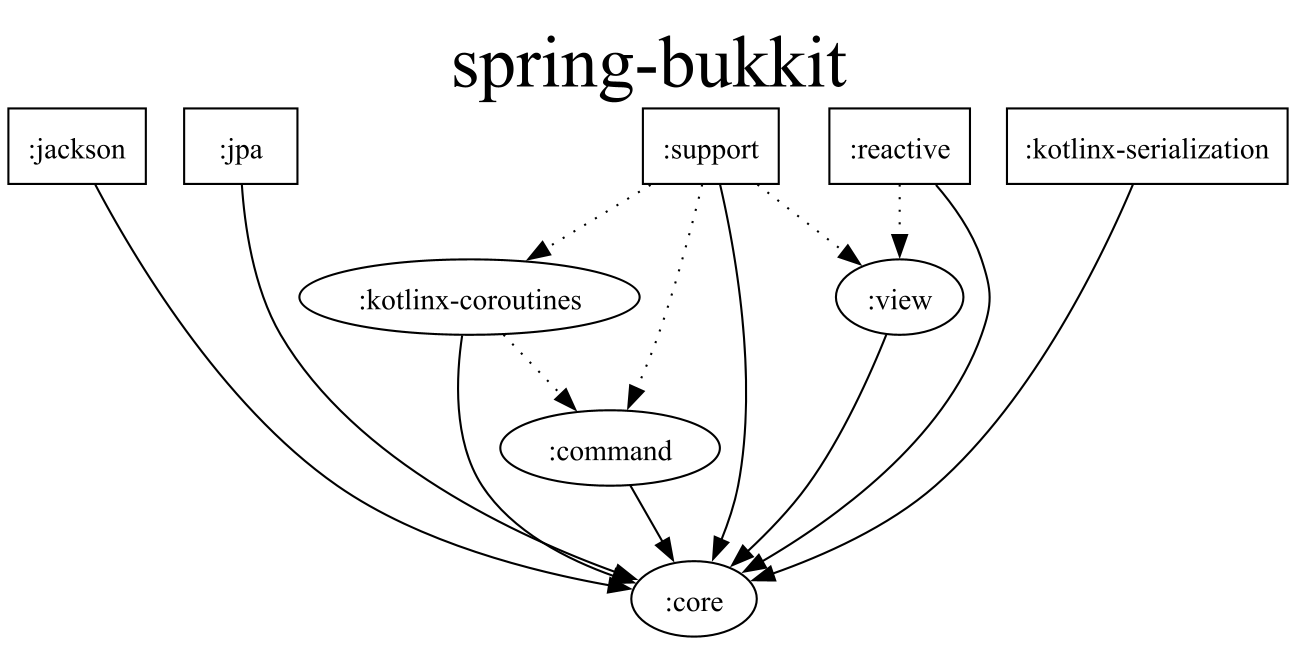
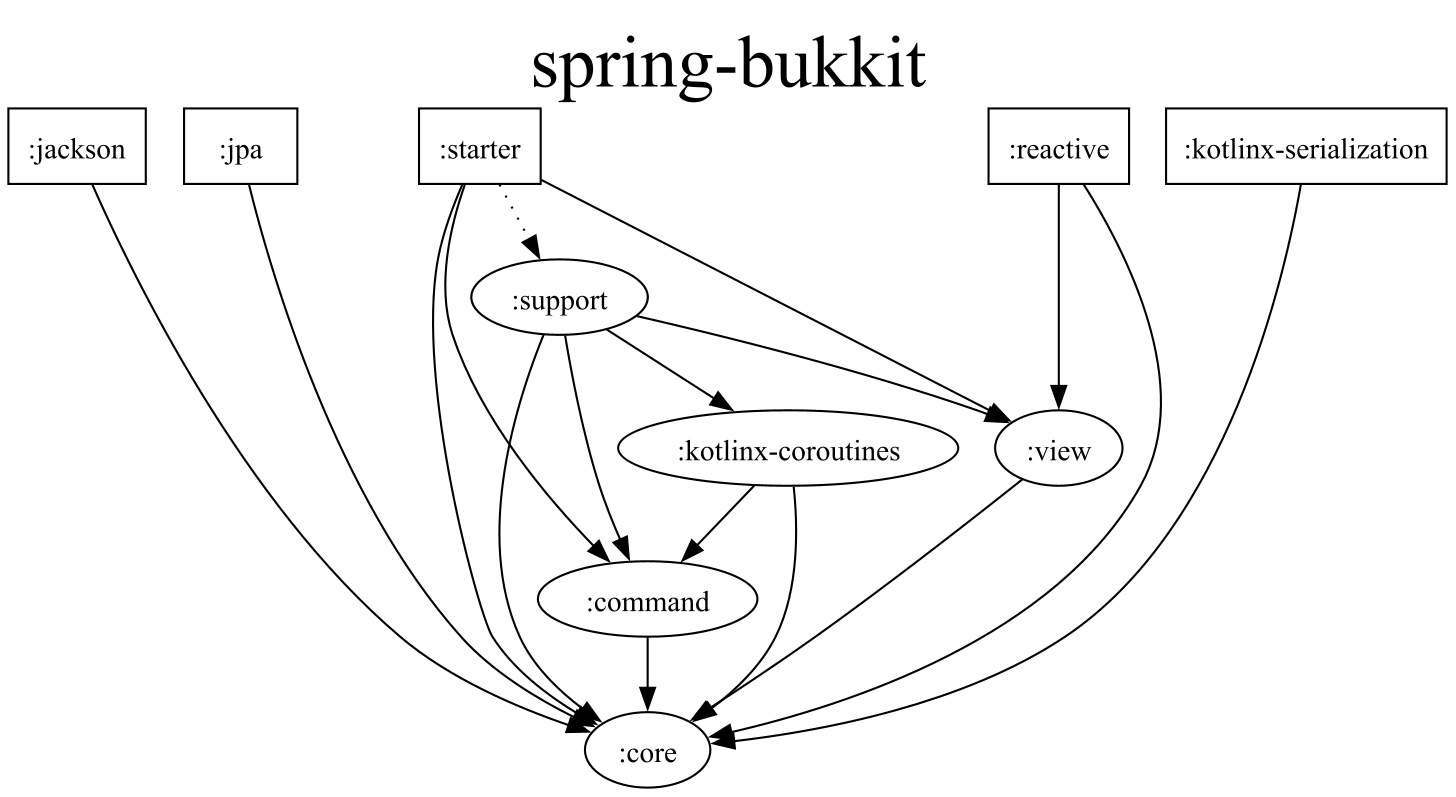
Fix auto configuration issue of support module

diff --git a/spring-bukkit-support/src/main/kotlin/kr/summitsystems/springbukkit/support/folia/coroutines/FoliaMainDispatcherFactory.kt b/spring-bukkit-support/src/main/kotlin/kr/summitsystems/springbukkit/support/folia/coroutines/FoliaMainDispatcherFactory.kt
@@ -3,6 +3,7 @@ package kr.summitsystems.springbukkit.support.folia.coroutines
 import kotlinx.coroutines.InternalCoroutinesApi
 import kotlinx.coroutines.MainCoroutineDispatcher
 import kotlinx.coroutines.internal.MainDispatcherFactory
+import kr.summitsystems.springbukkit.support.folia.FoliaUtils
 
 @OptIn(InternalCoroutinesApi::class)
 class FoliaMainDispatcherFactory : MainDispatcherFactory {
@@ -10,21 +11,12 @@ class FoliaMainDispatcherFactory : MainDispatcherFactory {
         get() = -1
 
     override fun createDispatcher(allFactories: List<MainDispatcherFactory>): MainCoroutineDispatcher {
-        return if (classExists("io.papermc.paper.threadedregions.scheduler.GlobalRegionScheduler")) {
+        return if (FoliaUtils.isUsingFolia()) {
             FoliaMainDispatcher()
         } else {
             allFactories
                 .first { it.loadPriority != this.loadPriority }
                 .createDispatcher(allFactories)
-        }
-    }
-
-    private fun classExists(className: String): Boolean {
-        return try {
-            Class.forName(className)
-            true
-        } catch (ex: ClassNotFoundException) {
-            false
         }
     }
 }

diff --git a/spring-bukkit-support/src/main/kotlin/kr/summitsystems/springbukkit/support/folia/FoliaConfiguration.kt b/spring-bukkit-support/src/main/kotlin/kr/summitsystems/springbukkit/support/folia/FoliaConfiguration.kt
@@ -2,15 +2,18 @@ package kr.summitsystems.springbukkit.support.folia
 
 import kr.summitsystems.springbukkit.core.scheduler.BukkitTaskScheduler
 import org.bukkit.plugin.Plugin
-import org.springframework.boot.autoconfigure.condition.ConditionalOnClass
 import org.springframework.context.annotation.Bean
 import org.springframework.context.annotation.Configuration
+import org.springframework.context.annotation.Primary
 
 @Configuration
 class FoliaConfiguration {
-    @ConditionalOnClass(name = ["io.papermc.paper.threadedregions.scheduler.GlobalRegionScheduler"])
+    @Primary
+    @ConditionalOnFolia
     @Bean
-    fun foliaBukkitTaskScheduler(plugin: Plugin): BukkitTaskScheduler {
+    fun foliaBukkitTaskScheduler(
+        plugin: Plugin
+    ): BukkitTaskScheduler {
         return FoliaBukkitTaskScheduler(plugin)
     }
 }

diff --git a/spring-bukkit-kotlinx-coroutines/src/main/kotlin/kr/summitsystems/springbukkit/kotlinx/coroutines/command/CoroutinesCommandExecutor.kt b/spring-bukkit-kotlinx-coroutines/src/main/kotlin/kr/summitsystems/springbukkit/kotlinx/coroutines/command/CoroutinesCommandExecutor.kt
@@ -5,7 +5,7 @@ import kotlinx.coroutines.launch
 import kr.summitsystems.springbukkit.command.*
 import org.springframework.beans.factory.annotation.Qualifier
 import org.springframework.beans.factory.config.BeanDefinition
-import org.springframework.context.annotation.Bean
+import org.springframework.context.annotation.Primary
 import org.springframework.context.annotation.Role
 import org.springframework.core.KotlinDetector
 import org.springframework.core.convert.ConversionService
@@ -13,6 +13,7 @@ import org.springframework.stereotype.Component
 import kotlin.reflect.full.callSuspend
 import kotlin.reflect.jvm.kotlinFunction
 
+@Primary
 @Component
 @Role(BeanDefinition.ROLE_INFRASTRUCTURE)
 class CoroutinesCommandExecutor(

diff --git a/spring-bukkit-kotlinx-coroutines/src/main/kotlin/kr/summitsystems/springbukkit/kotlinx/coroutines/listener/CoroutinesEventExecutorFactory.kt b/spring-bukkit-kotlinx-coroutines/src/main/kotlin/kr/summitsystems/springbukkit/kotlinx/coroutines/listener/CoroutinesEventExecutorFactory.kt
@@ -4,10 +4,12 @@ import kotlinx.coroutines.CoroutineScope
 import kr.summitsystems.springbukkit.core.listener.EventExecutorFactory
 import org.bukkit.plugin.EventExecutor
 import org.springframework.beans.factory.config.BeanDefinition
+import org.springframework.context.annotation.Primary
 import org.springframework.context.annotation.Role
 import org.springframework.stereotype.Component
 import java.lang.reflect.Method
 
+@Primary
 @Component
 @Role(BeanDefinition.ROLE_INFRASTRUCTURE)
 class CoroutinesEventExecutorFactory(private val coroutineScope: CoroutineScope) : EventExecutorFactory {

diff --git a/spring-bukkit-support/src/main/kotlin/kr/summitsystems/springbukkit/support/folia/FoliaUtils.kt b/spring-bukkit-support/src/main/kotlin/kr/summitsystems/springbukkit/support/folia/FoliaUtils.kt
@@ -1,0 +1,16 @@
+package kr.summitsystems.springbukkit.support.folia
+
+object FoliaUtils {
+    fun isUsingFolia(): Boolean {
+        return classExists("io.papermc.paper.threadedregions.RegionizedServer")
+    }
+
+    private fun classExists(className: String): Boolean {
+        return try {
+            Class.forName(className)
+            true
+        } catch (ex: ClassNotFoundException) {
+            false
+        }
+    }
+}

diff --git a/spring-bukkit-support/src/main/kotlin/kr/summitsystems/springbukkit/support/folia/FoliaCondition.kt b/spring-bukkit-support/src/main/kotlin/kr/summitsystems/springbukkit/support/folia/FoliaCondition.kt
@@ -1,0 +1,11 @@
+package kr.summitsystems.springbukkit.support.folia
+
+import org.springframework.context.annotation.Condition
+import org.springframework.context.annotation.ConditionContext
+import org.springframework.core.type.AnnotatedTypeMetadata
+
+class FoliaCondition : Condition {
+    override fun matches(context: ConditionContext, metadata: AnnotatedTypeMetadata): Boolean {
+        return FoliaUtils.isUsingFolia()
+    }
+}

diff --git a/spring-bukkit-support/src/main/kotlin/kr/summitsystems/springbukkit/support/folia/ConditionalOnFolia.kt b/spring-bukkit-support/src/main/kotlin/kr/summitsystems/springbukkit/support/folia/ConditionalOnFolia.kt
@@ -1,0 +1,8 @@
+package kr.summitsystems.springbukkit.support.folia
+
+import org.springframework.context.annotation.Conditional
+
+@Target(AnnotationTarget.CLASS, AnnotationTarget.FUNCTION)
+@Retention(AnnotationRetention.RUNTIME)
+@Conditional(FoliaCondition::class)
+annotation class ConditionalOnFolia
